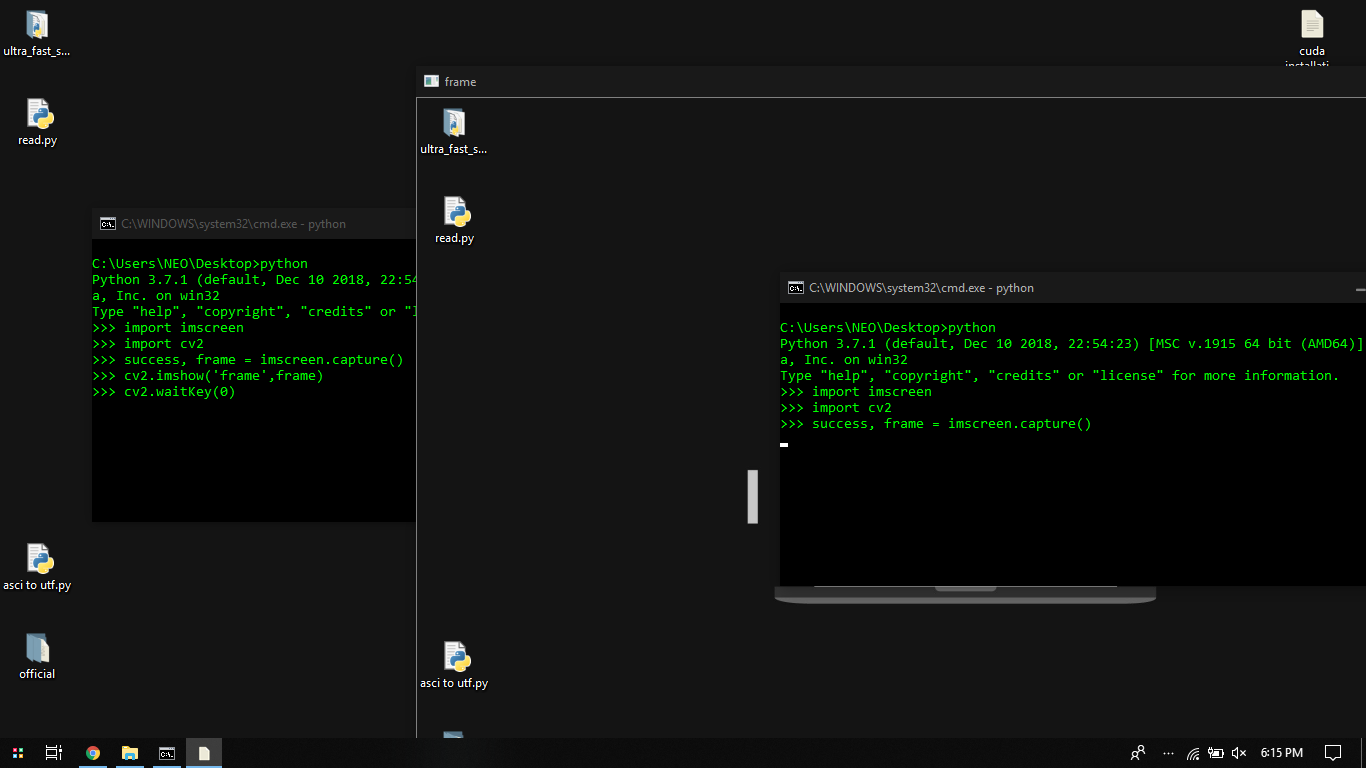
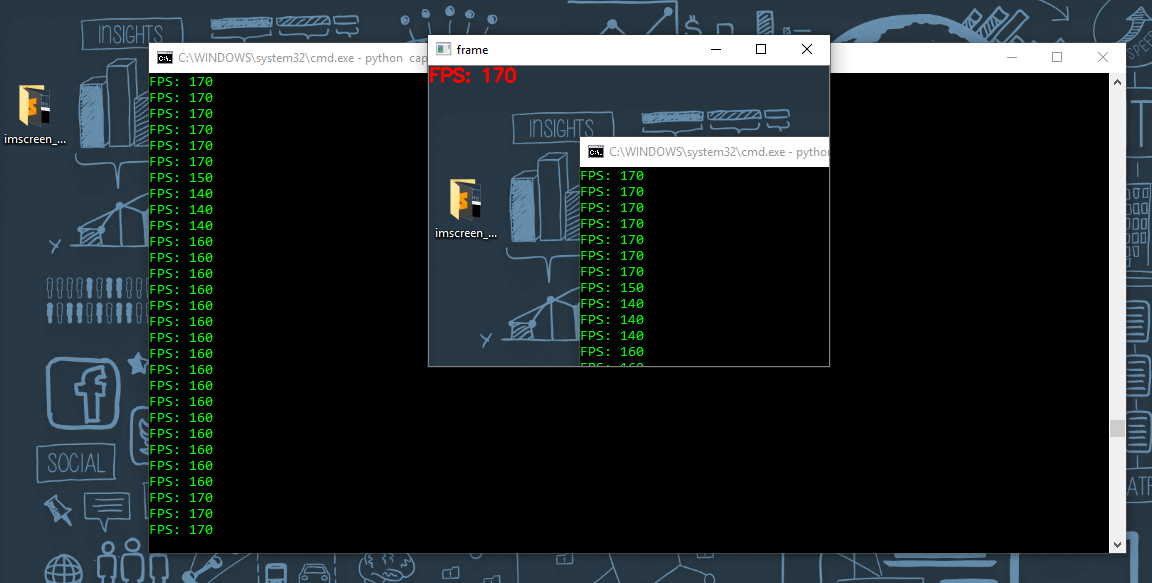
v0.3.0 update
Replaced screen_info module with pyautogui

diff --git a/imscreen/imscreen.py b/imscreen/imscreen.py
@@ -3,19 +3,22 @@ import numpy
 import cv2
 import time
 import math
-from screeninfo import get_monitors
-scr_width, scr_height = str(get_monitors()[0]).split('(')[1].split('+')[0].split('x')
+import pyautogui
+
+scr_width, scr_height = pyautogui.size()
 vs = cv2.VideoCapture(0)
 global st
 st = 0
-def capture(y=0,x=0,w=int(scr_width),h=int(scr_width)):
-    w = w-y
-    h = h-x
+def capture(y=0,x=0,w=int(scr_width),h=int(scr_height)):
+
+    if not type(y) == str:
+        w = w-y
+        h = h-x
     global st
     st = time.time()
     try:
-        if type(x) == type(''):
-            success,frame = vs.read()
+        if type(y) == str:
+            success,frame = vs.read(0)
             return (True,frame)
         else:
             assert w != 0, '>> Error! Width Cannot be Zero.'
@@ -28,19 +31,36 @@ def capture(y=0,x=0,w=int(scr_width),h=int(scr_width)):
         print(e)
         return (False,bin)
 
+global fps_dict
+fps_dict = {0:30, 1:30, 2:30, 3:30, 4:30, 5:30, 6:30 ,7:30 ,8:30 ,9:30 ,10:30 ,11:30 ,12:30 ,13:30 ,14:30 ,15:30}
+
+global fps_idx
+fps_idx = 0
 def fps(log = False):
     try:
         global st
+        global fps_dict
+        global fps_idx
+
+        if fps_idx == len(list(fps_dict.values())):
+            fps_idx = 0
+
         et = time.time()
         tt = 1/(et-st)
         FPS = round(tt)
         FPS = int(math.ceil(FPS / 10.0)) * 10
-        if log == True:
-            print('FPS: {}'.format(FPS))
-        return FPS
+
+        fps_dict.update({fps_idx:FPS})
+        average_fps = max(list(fps_dict.values()))
+        fps_idx +=1
+        return average_fps
     except:
+        FPS = 0
+        fps_dict = {0:30, 1:30, 2:30, 3:30, 4:30, 5:30}
+        fps_idx = 0
+        return FPS
+    finally:
         if log == True:
-            print('FPS: {}'.format(0))
-        return 0
+            print('FPS: {}'.format(average_fps))
 
 

diff --git a/setup.py b/setup.py
@@ -2,19 +2,19 @@ from distutils.core import setup
 setup(
   name = 'imscreen',         # How you named your package folder (MyLib)
   packages = ['imscreen'],   # Chose the same as "name"
-  version = '0.2.2',      # Start with a small number and increase it with every change you make
+  version = '0.3.0',      # Start with a small number and increase it with every change you make
   license='MIT',        # Chose a license from here: https://help.github.com/articles/licensing-a-repository
   description = 'This Library is used to Capture your \"Computer\'s Screen / Webcam\" with Ultra High FPS.',   # Give a short description about your library
   author = 'Nitin Rai',                   # Type in your name
   author_email = 'mneonizer@gmail.com',      # Type in your E-Mail
   url = 'https://github.com/imneonizer/imscreen',   # Provide either the link to your github or to your website
-  download_url = 'https://github.com/imneonizer/imscreen/archive/v0.2.1.tar.gz',    # I explain this later on
+  download_url = 'https://github.com/imneonizer/imscreen/archive/v0.3.0.tar.gz',    # I explain this later on
   keywords = ['Screen Shot', 'Screen Capture', 'Webcam Reading'],   # Keywords that define your package best
   install_requires=[            # I get to this in a second
           'mss',
           'numpy',
           'opencv-contrib-python',
-          'screeninfo',
+          'pyautogui',
       ],
   classifiers=[
     'Development Status :: 4 - Beta',      # Chose either "3 - Alpha", "4 - Beta" or "5 - Production/Stable" as the current state of your package

diff --git a/example/capture_screen.py b/example/capture_screen.py
@@ -1,9 +1,8 @@
 import cv2
-import numpy as np
 import imscreen
 
 while True:
-    success, frame = imscreen.capture(0,0,100,100)
+    success, frame = imscreen.capture(0,0,400,300)
     if not success:
         break
 
@@ -11,5 +10,5 @@ while True:
     cv2.putText(frame, "FPS: {}".format(fps), (0, 15), cv2.FONT_HERSHEY_SIMPLEX, 0.6, (0, 0, 255), 2)
     cv2.imwrite('screen_shot.png',frame)
     cv2.imshow('frame',frame)
-    cv2.waitKey(1)
-    input('>> Press Enter to Capture Next Frame')
+    if cv2.waitKey(1) == ord('q'):
+        break

diff --git a/Readme.md b/Readme.md
@@ -7,14 +7,14 @@ imscreen is intended to provide seamless functions for quickly capturing frames 
 > Quickly and efficiently capture screen / webcam with no hassle, the captured frame is returned as Numpy N-dimensional Array, So are very easy to read and process with OpenCV. On an average powered computer, it was able to capture frames with `80 FPS`
 
 ### External Modules Used Inside the Package
-```
+```python
 >> opencv-contrib-python
 >> numpy
 >> mss
->> screeninfo
+>> pyautogui
 ```
 ### Usage
-```
+```python
 import imscreen
 import cv2
 while True:
@@ -26,11 +26,11 @@ while True:
 ```
 
 ### Functions Overview
-```
+```python
 success, frame = imscreen.capture(0,0,100,100)
 ```
 The function `imscreen.capture()` takes four positional arguments which are nothing but `Top, Left, Width, Height` Coordinates of the screen which are required to capture. And returns a Boolean, Frame. The Boolean is used to check if there is any error in reading the frames so that wea can `break` loops while capturing continuously.
->> Note:- Capturing only required area of screen results in Higher FPS.
+>Note:- Capturing only required area of screen results in Higher FPS.
 
 ##### Let's see what else we can do with the `capture()` function
 If we pass only two values to the function, the other two arguments will be set as screen's resolution width and height by default.
@@ -50,7 +50,7 @@ fps = imscreen.fps(log = True)
 `imscreen.fps()` returns FPS and if we set `fps(log = True)` it will also print out in the console, and if we set `fps = imscreen.fps(log = False)`, this means the fps will be stored inside the `fps` variable but will not print the FPS inisde the console, this can be preety handy when you only want to see the FPS in the console or if you need to store it inside some variable, so that later it can be used to write on to the frame directly.
 
 #### Example
-```
+```python
 import cv2
 import numpy as np
 import imscreen
@@ -65,7 +65,7 @@ while True:
     cv2.waitKey(1)
 ```
 
-![Example](https://github.com/imneonizer/imscreen/blob/master/example/screen_shot.png)
+![Example](example/screen_shot.png)
 
 Hope you enjoyed the Documentation. Don't forget to star the repository.
 if you have any query, feel free to ask.
